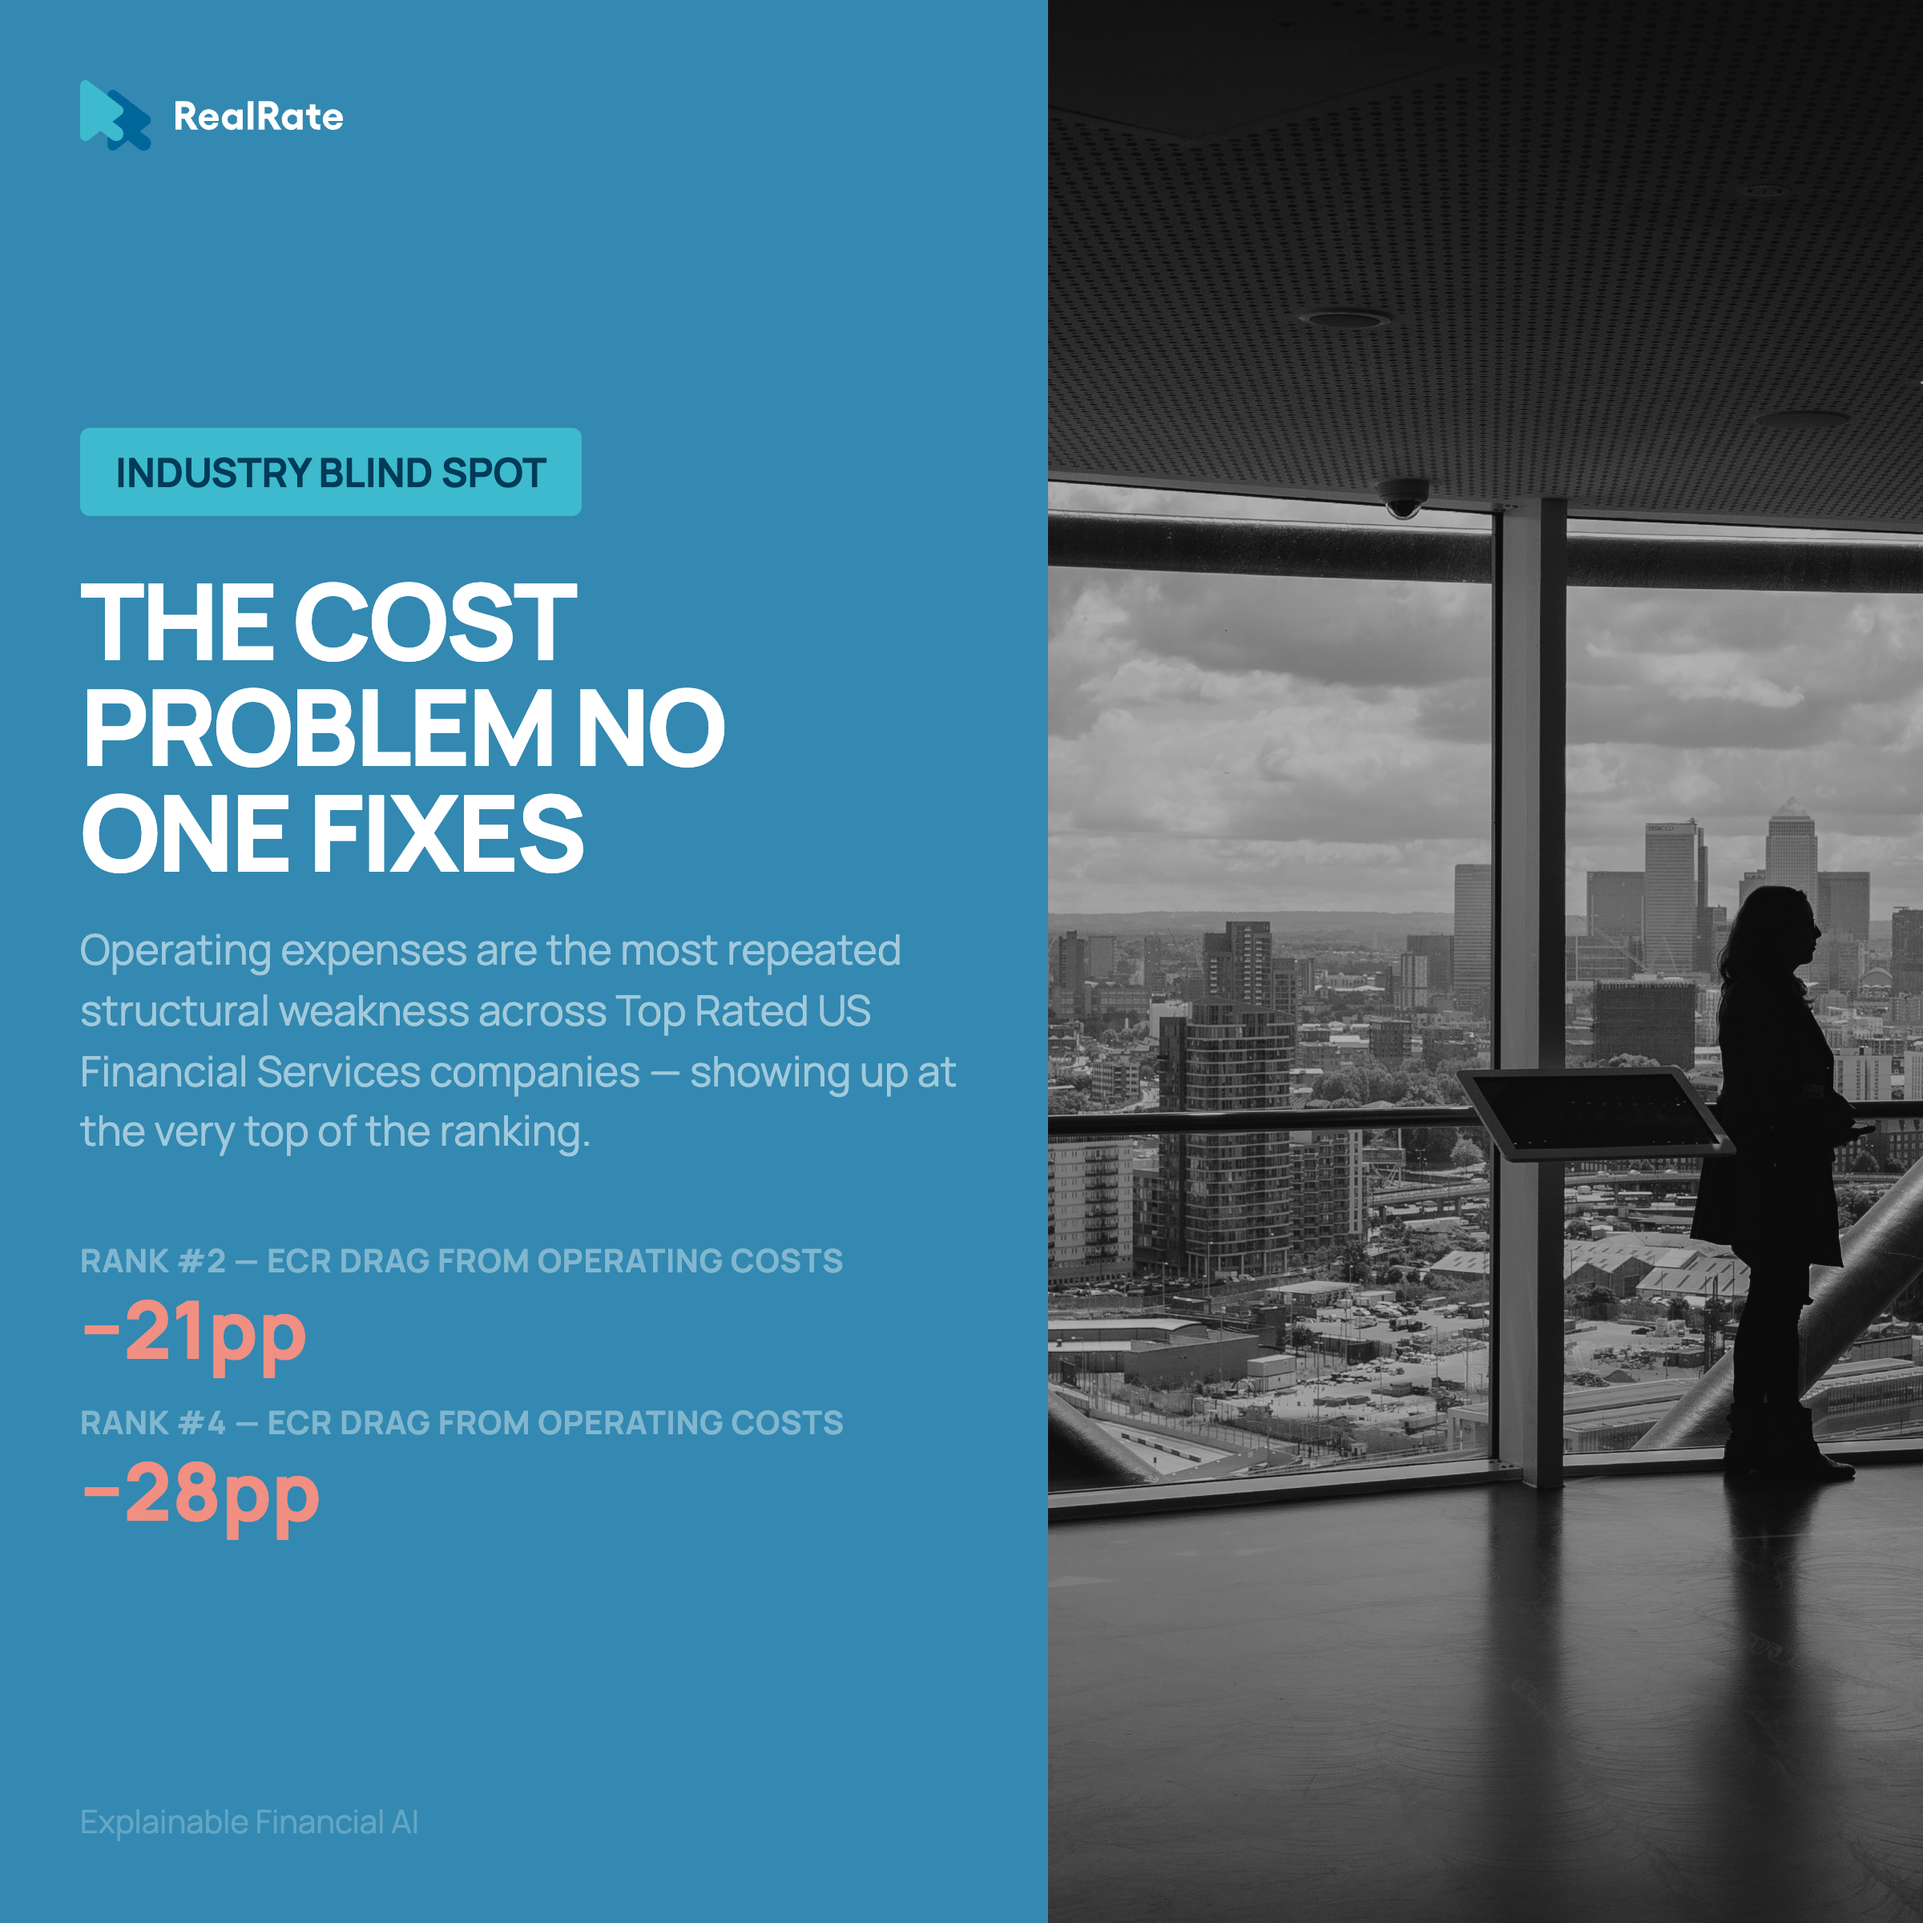
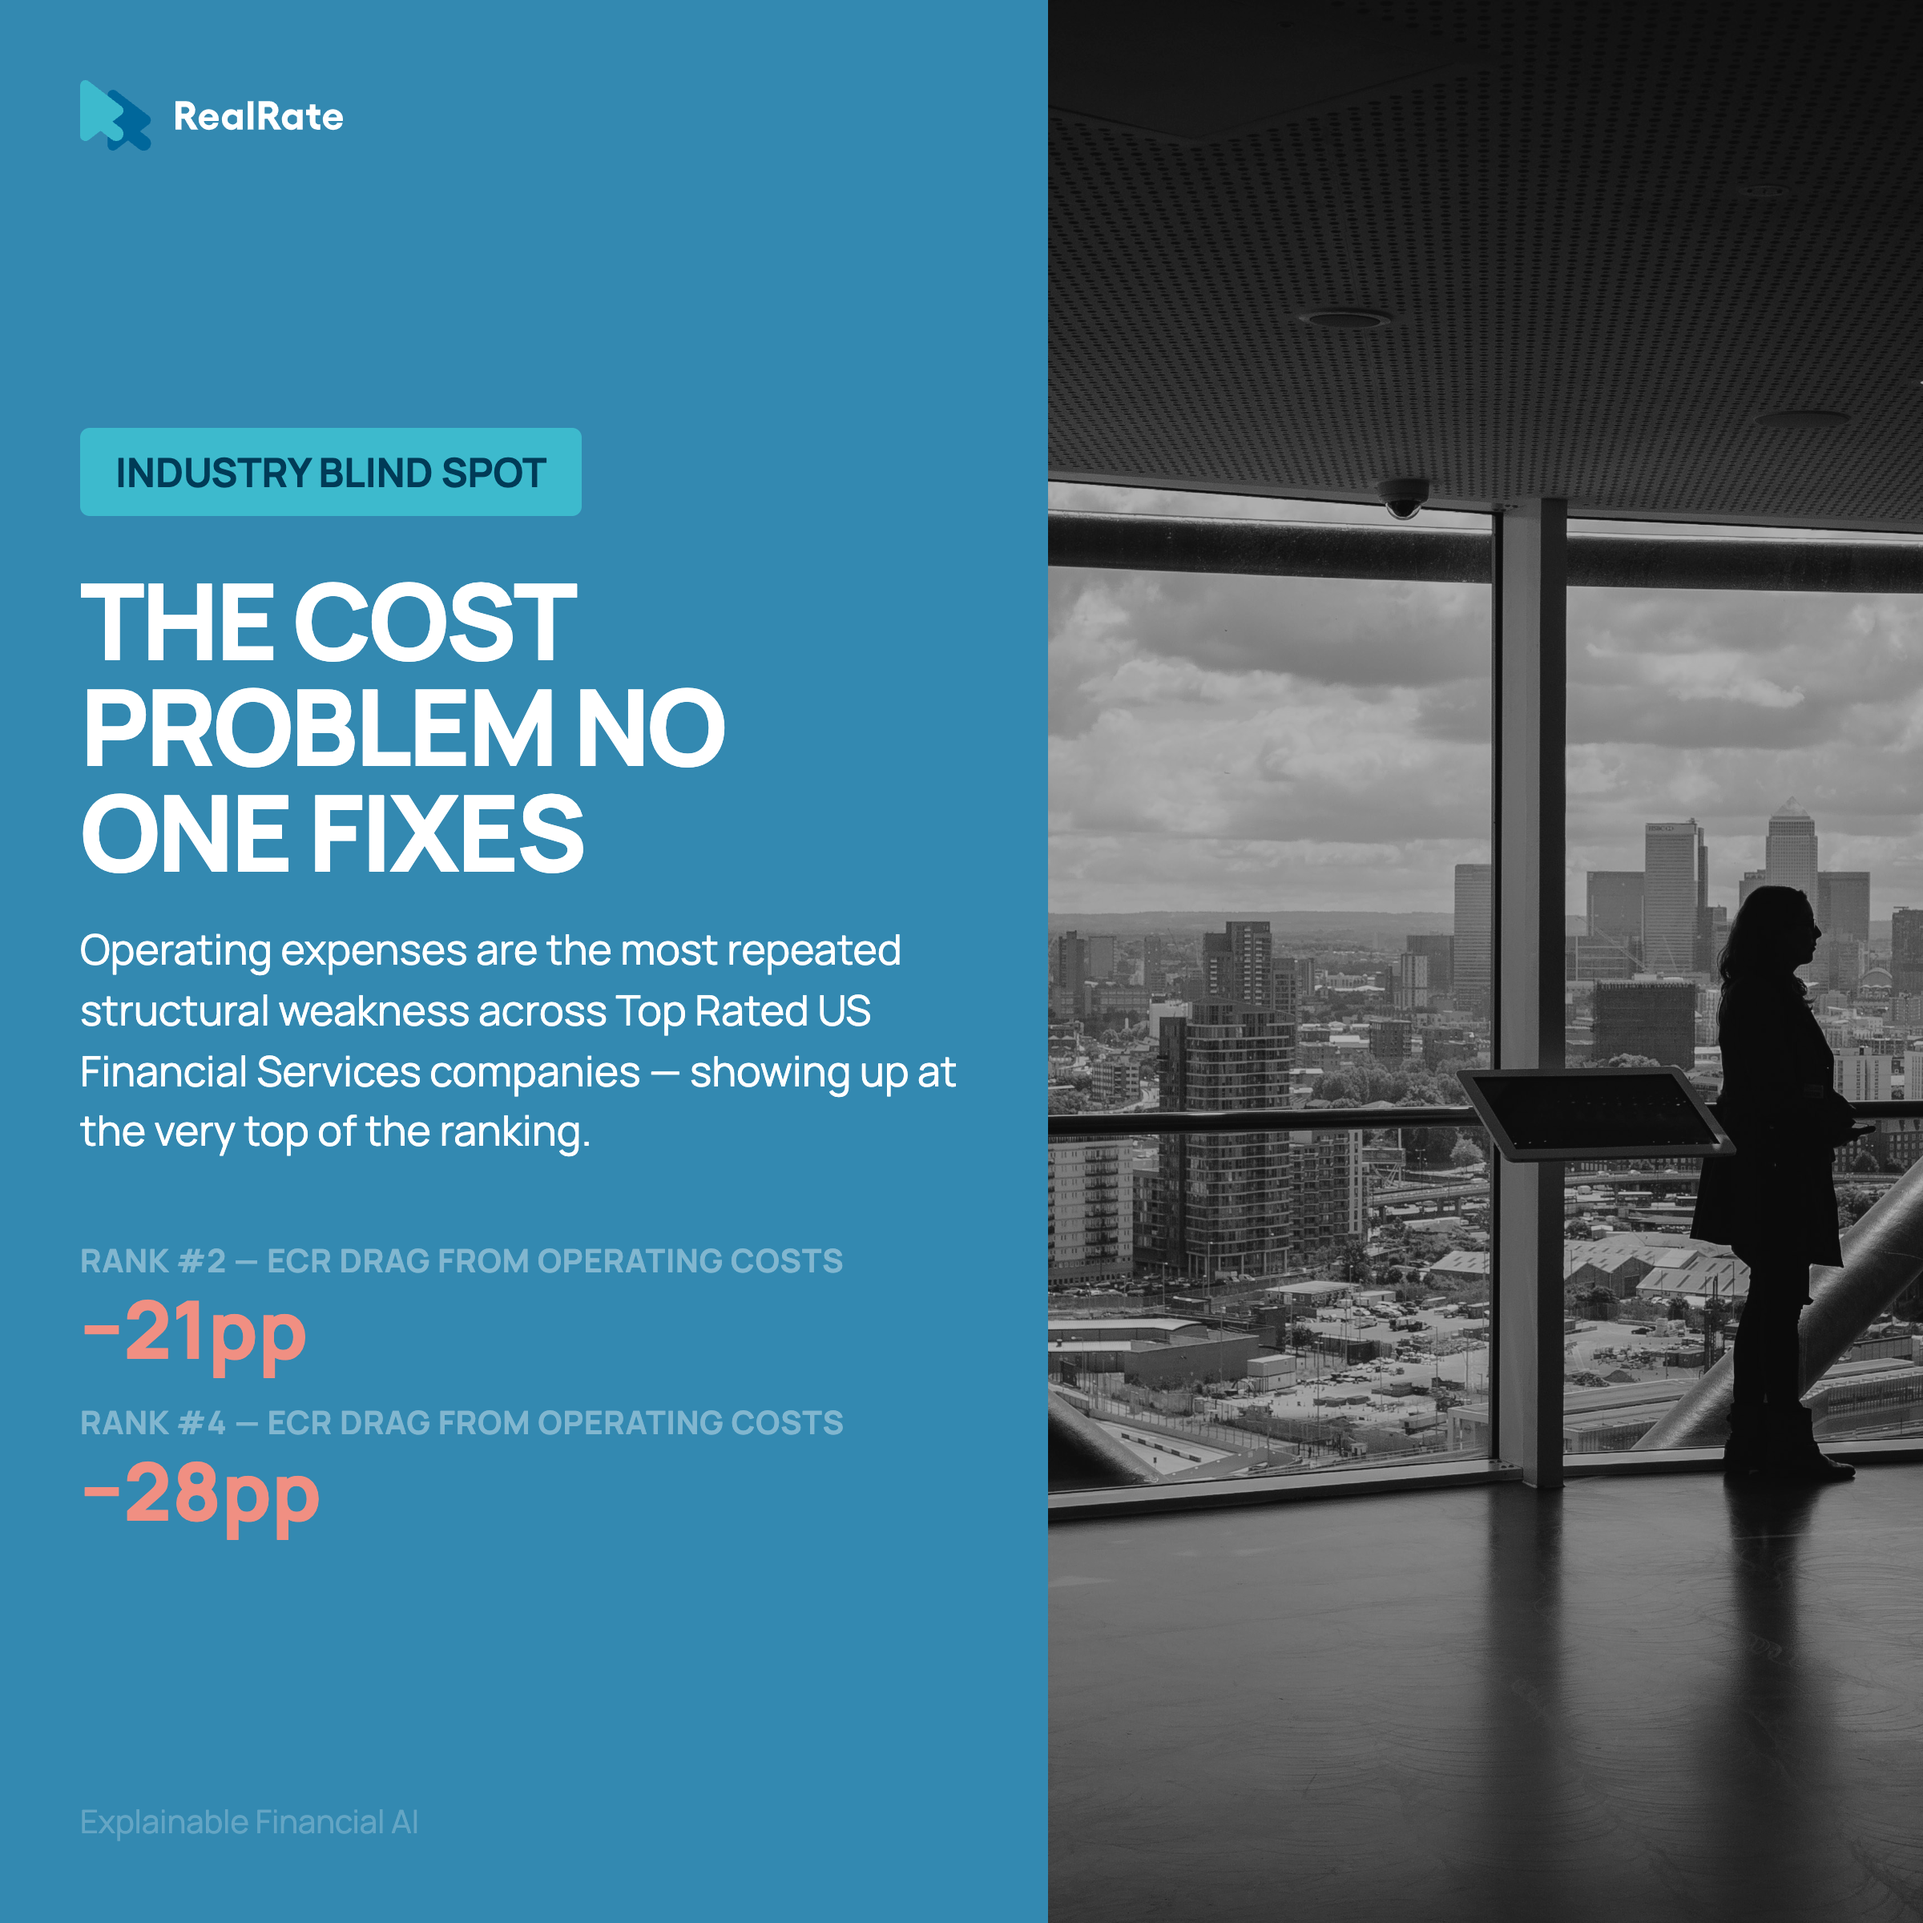
Update Insight 3 — full white description text

Changed region(s): [[0.0312, 0.4688, 0.5, 0.5938]]

diff --git a/posts/insight3_industry-blind-spot_us-finance-services.html b/posts/insight3_industry-blind-spot_us-finance-services.html
@@ -80,7 +80,7 @@
     .subtitle {
       font-size: 26px;
       font-weight: 400;
-      color: rgba(255, 255, 255, 0.54);
+      color: #ffffff;
       line-height: 1.45;
       margin-bottom: 48px;
     }
